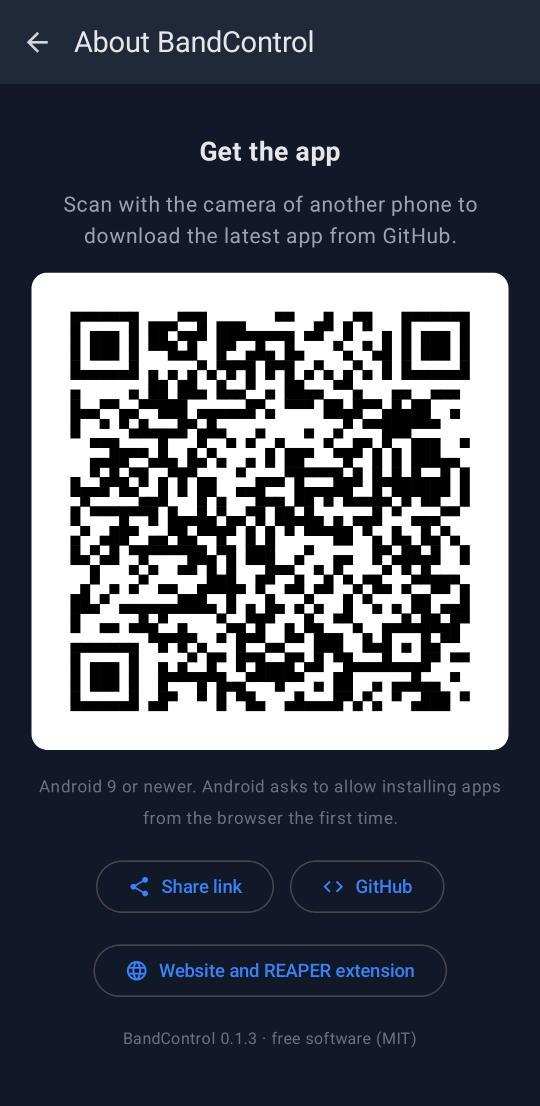
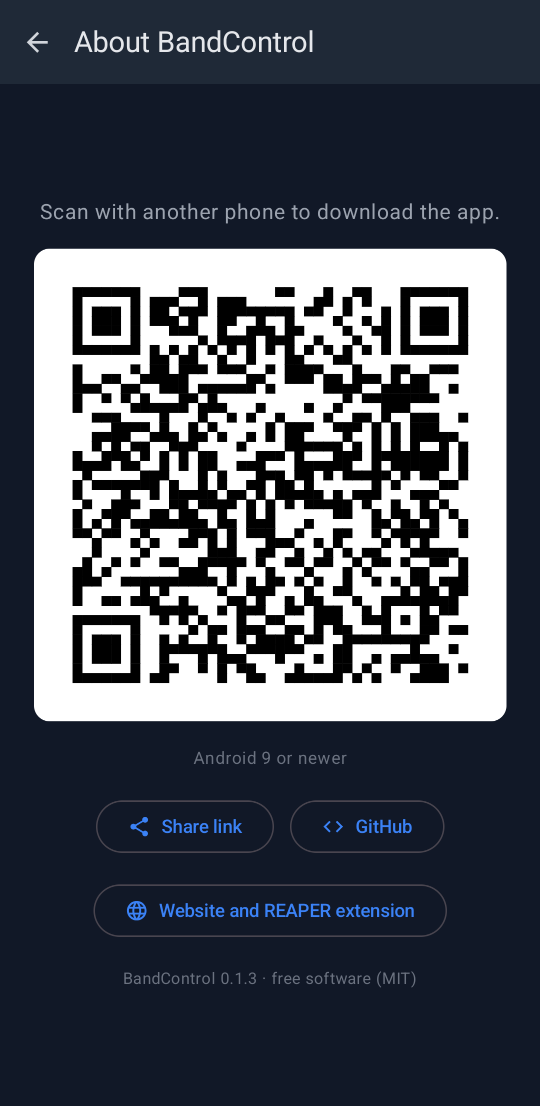
fix(android): the welcome, About and QR code screens fit without scrolling (#27)
* feat(android): a shorter welcome screen that fits without scrolling

* fix(android): the About and pairing QR code screens fit without scrolling

diff --git a/android/app/src/main/kotlin/dev/nikarh/bandcontrol/app/ui/PairScreen.kt b/android/app/src/main/kotlin/dev/nikarh/bandcontrol/app/ui/PairScreen.kt
@@ -7,20 +7,18 @@ import androidx.activity.compose.BackHandler
 import androidx.compose.foundation.Image
 import androidx.compose.foundation.background
 import androidx.compose.foundation.layout.Arrangement
-import androidx.compose.foundation.layout.Box
+import androidx.compose.foundation.layout.BoxWithConstraints
 import androidx.compose.foundation.layout.Column
-import androidx.compose.foundation.layout.PaddingValues
-import androidx.compose.foundation.layout.Row
 import androidx.compose.foundation.layout.Spacer
 import androidx.compose.foundation.layout.fillMaxSize
 import androidx.compose.foundation.layout.fillMaxWidth
 import androidx.compose.foundation.layout.height
+import androidx.compose.foundation.layout.heightIn
 import androidx.compose.foundation.layout.imePadding
 import androidx.compose.foundation.layout.padding
 import androidx.compose.foundation.layout.size
 import androidx.compose.foundation.layout.width
 import androidx.compose.foundation.rememberScrollState
-import androidx.compose.foundation.shape.CircleShape
 import androidx.compose.foundation.shape.RoundedCornerShape
 import androidx.compose.foundation.text.KeyboardOptions
 import androidx.compose.foundation.verticalScroll
@@ -112,28 +110,40 @@ fun PairScreen(
                 .padding(padding)
                 .fillMaxSize()
                 .imePadding()
-                .verticalScroll(rememberScrollState())
                 .padding(horizontal = 24.dp, vertical = 16.dp),
-            verticalArrangement = Arrangement.spacedBy(20.dp),
         ) {
-            if (onCancel == null) Welcome()
-            Column(verticalArrangement = Arrangement.spacedBy(14.dp)) {
-                Text("Pair with your computer", color = Palette.gray200, fontSize = 18.sp, fontWeight = FontWeight.SemiBold)
-                Step(1, "Install the BandControl extension for REAPER on the computer.") {
-                    TextButton(
-                        onClick = openWebsite,
-                        contentPadding = PaddingValues(vertical = 4.dp),
-                        modifier = Modifier.testTag("get-extension"),
-                    ) {
-                        Text("Get the extension", color = Palette.blue500)
+            // The middle takes the free space and centers its content; it only scrolls when it can't fit (the
+            // keyboard is up, landscape).
+            BoxWithConstraints(Modifier.weight(1f).fillMaxWidth()) {
+                Column(
+                    Modifier
+                        .verticalScroll(rememberScrollState())
+                        .heightIn(min = maxHeight)
+                        .fillMaxWidth(),
+                    verticalArrangement = Arrangement.Center,
+                    horizontalAlignment = Alignment.CenterHorizontally,
+                ) {
+                    if (manual) {
+                        ManualEntry(
+                            code = code,
+                            onCode = { code = it },
+                            name = name,
+                            onName = { name = it },
+                            valid = secret != null,
+                            onPair = { secret?.let { onPair(PairingInfo(it, name.trim())) } },
+                        )
+                    } else {
+                        Intro(welcome = onCancel == null, onGetExtension = openWebsite)
                     }
                 }
-                Step(2, "In REAPER, run the action \"BandControl: Show pairing QR code\".")
-                Step(3, "Scan the QR code it shows. Another paired phone can show it too.")
+            }
+            scanError?.let {
+                Text(it, color = Palette.red500, textAlign = TextAlign.Center, modifier = Modifier.fillMaxWidth().padding(bottom = 8.dp))
             }
             Button(
                 onClick = {
                     scanError = null
+                    manual = false
                     scanning = true
                 },
                 colors = ButtonDefaults.buttonColors(containerColor = Palette.blue500, contentColor = Color.White),
@@ -143,33 +153,29 @@ fun PairScreen(
                 Spacer(Modifier.width(8.dp))
                 Text("Scan QR code")
             }
-            scanError?.let { Text(it, color = Palette.red500) }
             if (!manual) {
                 TextButton(
                     onClick = { manual = true },
                     modifier = Modifier.align(Alignment.CenterHorizontally).testTag("enter-code"),
                 ) { Text("Enter the code instead", color = Palette.blue500) }
-            } else {
-                ManualEntry(
-                    code = code,
-                    onCode = { code = it },
-                    name = name,
-                    onName = { name = it },
-                    valid = secret != null,
-                    onPair = { secret?.let { onPair(PairingInfo(it, name.trim())) } },
-                )
             }
         }
     }
 }
 
+/** What the app is (on a fresh install) and the one thing to do: show the QR code in REAPER. */
 @Composable
-private fun Welcome() {
-    Column(Modifier.fillMaxWidth(), horizontalAlignment = Alignment.CenterHorizontally) {
-        Box(Modifier.size(96.dp).clip(RoundedCornerShape(24.dp)).background(Palette.gray800), contentAlignment = Alignment.Center) {
-            Image(painterResource(R.drawable.ic_launcher_foreground), contentDescription = null, modifier = Modifier.size(96.dp))
-        }
-        Spacer(Modifier.height(16.dp))
+private fun Intro(
+    welcome: Boolean,
+    onGetExtension: () -> Unit,
+) {
+    if (welcome) {
+        Image(
+            painterResource(R.drawable.ic_launcher_foreground),
+            contentDescription = null,
+            modifier = Modifier.size(88.dp).clip(RoundedCornerShape(22.dp)).background(Palette.gray800),
+        )
+        Spacer(Modifier.height(20.dp))
         Text(
             "Control REAPER from your phone",
             color = Palette.gray200,
@@ -177,30 +183,15 @@ private fun Welcome() {
             fontWeight = FontWeight.Bold,
             textAlign = TextAlign.Center,
         )
-        Spacer(Modifier.height(6.dp))
-        Text(
-            "Playback and the setlist, input and FOH levels, and your own in-ear mix, over Bluetooth.",
-            color = Palette.gray400,
-            textAlign = TextAlign.Center,
-        )
+        Spacer(Modifier.height(8.dp))
     }
-}
-
-@Composable
-private fun Step(
-    number: Int,
-    text: String,
-    action: (@Composable () -> Unit)? = null,
-) {
-    Row {
-        Box(Modifier.size(24.dp).background(Palette.gray700, CircleShape), contentAlignment = Alignment.Center) {
-            Text(number.toString(), color = Palette.gray200, fontSize = 13.sp, fontWeight = FontWeight.Bold)
-        }
-        Spacer(Modifier.width(12.dp))
-        Column(Modifier.weight(1f).padding(top = 2.dp)) {
-            Text(text, color = Palette.gray300)
-            action?.invoke()
-        }
+    Text(
+        "In REAPER, run \"BandControl: Show pairing QR code\" and scan it.",
+        color = Palette.gray400,
+        textAlign = TextAlign.Center,
+    )
+    TextButton(onClick = onGetExtension, modifier = Modifier.testTag("get-extension")) {
+        Text("Get the REAPER extension", color = Palette.blue500)
     }
 }
 
@@ -214,7 +205,7 @@ private fun ManualEntry(
     onPair: () -> Unit,
 ) {
     Column(verticalArrangement = Arrangement.spacedBy(12.dp)) {
-        Text("The code is shown below the QR code.", color = Palette.gray400, fontSize = 14.sp)
+        Text("Type the code shown below the QR code in REAPER.", color = Palette.gray400, fontSize = 14.sp)
         OutlinedTextField(
             value = code,
             onValueChange = onCode,

diff --git a/android/app/src/main/kotlin/dev/nikarh/bandcontrol/app/ui/ShareScreen.kt b/android/app/src/main/kotlin/dev/nikarh/bandcontrol/app/ui/ShareScreen.kt
@@ -6,14 +6,13 @@ import androidx.activity.compose.LocalActivity
 import androidx.compose.foundation.Canvas
 import androidx.compose.foundation.background
 import androidx.compose.foundation.layout.Arrangement
-import androidx.compose.foundation.layout.Box
+import androidx.compose.foundation.layout.BoxWithConstraints
 import androidx.compose.foundation.layout.Column
-import androidx.compose.foundation.layout.aspectRatio
+import androidx.compose.foundation.layout.ColumnScope
 import androidx.compose.foundation.layout.fillMaxSize
-import androidx.compose.foundation.layout.fillMaxWidth
 import androidx.compose.foundation.layout.padding
 import androidx.compose.foundation.layout.safeDrawingPadding
-import androidx.compose.foundation.layout.widthIn
+import androidx.compose.foundation.layout.size
 import androidx.compose.foundation.rememberScrollState
 import androidx.compose.foundation.shape.RoundedCornerShape
 import androidx.compose.foundation.verticalScroll
@@ -62,21 +61,13 @@ fun ShareScreen(
         containerColor = Palette.gray900,
         topBar = { AppBar("Pair another phone", onBack = onClose, backTag = "share-close") },
     ) { padding ->
-        Column(
-            Modifier
-                .padding(padding)
-                .fillMaxSize()
-                .verticalScroll(rememberScrollState())
-                .padding(24.dp),
-            horizontalAlignment = Alignment.CenterHorizontally,
-            verticalArrangement = Arrangement.spacedBy(16.dp, Alignment.CenterVertically),
-        ) {
+        QrPage(Modifier.padding(padding)) { qr ->
             Text(
                 "On the other phone, open BandControl, tap \"Scan QR code\" and point it at this code.",
                 color = Palette.gray400,
                 textAlign = TextAlign.Center,
             )
-            QrCode(matrix, Modifier.testTag("share-qr"))
+            QrCode(matrix, qr.testTag("share-qr"))
             if (info.name.isNotEmpty()) Text(info.name, color = Palette.gray200, fontSize = 16.sp)
             val groups = info.secret.toDisplayCode().split('-')
             Text(
@@ -92,30 +83,58 @@ fun ShareScreen(
     }
 }
 
-/** A QR code on white with its quiet zone, as wide as allowed up to 360 dp. */
+/** Below this height the QR code would get too small to scan, so the page scrolls instead of shrinking it. */
+private val MIN_FITTING_HEIGHT = 480.dp
+
+/**
+ * A centered page around a QR code. The code shrinks so that the page fits the screen without scrolling; [content]
+ * gets the modifier to give it. On a very short screen (landscape) the page scrolls with the code at full width.
+ */
+@Composable
+fun QrPage(
+    modifier: Modifier = Modifier,
+    content: @Composable ColumnScope.(qr: Modifier) -> Unit,
+) {
+    BoxWithConstraints(modifier.fillMaxSize()) {
+        val fits = maxHeight >= MIN_FITTING_HEIGHT
+        Column(
+            Modifier
+                .fillMaxSize()
+                .then(if (fits) Modifier else Modifier.verticalScroll(rememberScrollState()))
+                .padding(24.dp),
+            horizontalAlignment = Alignment.CenterHorizontally,
+            verticalArrangement = Arrangement.spacedBy(16.dp, Alignment.CenterVertically),
+        ) {
+            content(if (fits) Modifier.weight(1f, fill = false) else Modifier)
+        }
+    }
+}
+
+/** A QR code on white with its quiet zone, as large as the space it gets allows, up to 360 dp. */
 @Composable
 fun QrCode(
     matrix: QrMatrix,
     modifier: Modifier = Modifier,
 ) {
-    Canvas(
-        modifier
-            .fillMaxWidth()
-            .widthIn(max = 360.dp)
-            .aspectRatio(1f)
-            .clip(RoundedCornerShape(12.dp))
-            .background(Color.White),
-    ) {
-        val module = size.width / (matrix.size + 2 * QUIET_ZONE)
-        for (y in 0 until matrix.size) {
-            for (x in 0 until matrix.size) {
-                if (matrix[x, y]) {
-                    drawRect(
-                        Color.Black,
-                        Offset((x + QUIET_ZONE) * module, (y + QUIET_ZONE) * module),
-                        // Slight overlap so no hairlines appear between modules.
-                        Size(module + 0.5f, module + 0.5f),
-                    )
+    BoxWithConstraints(modifier, contentAlignment = Alignment.Center) {
+        val side = minOf(maxWidth, maxHeight, 360.dp)
+        Canvas(
+            Modifier
+                .size(side)
+                .clip(RoundedCornerShape(12.dp))
+                .background(Color.White),
+        ) {
+            val module = size.width / (matrix.size + 2 * QUIET_ZONE)
+            for (y in 0 until matrix.size) {
+                for (x in 0 until matrix.size) {
+                    if (matrix[x, y]) {
+                        drawRect(
+                            Color.Black,
+                            Offset((x + QUIET_ZONE) * module, (y + QUIET_ZONE) * module),
+                            // Slight overlap so no hairlines appear between modules.
+                            Size(module + 0.5f, module + 0.5f),
+                        )
+                    }
                 }
             }
         }

diff --git a/android/app/src/main/kotlin/dev/nikarh/bandcontrol/app/ui/AboutScreen.kt b/android/app/src/main/kotlin/dev/nikarh/bandcontrol/app/ui/AboutScreen.kt
@@ -10,13 +10,10 @@ import androidx.compose.foundation.layout.Box
 import androidx.compose.foundation.layout.Column
 import androidx.compose.foundation.layout.Row
 import androidx.compose.foundation.layout.Spacer
-import androidx.compose.foundation.layout.fillMaxSize
 import androidx.compose.foundation.layout.padding
 import androidx.compose.foundation.layout.safeDrawingPadding
 import androidx.compose.foundation.layout.size
 import androidx.compose.foundation.layout.width
-import androidx.compose.foundation.rememberScrollState
-import androidx.compose.foundation.verticalScroll
 import androidx.compose.material.icons.Icons
 import androidx.compose.material.icons.filled.Close
 import androidx.compose.material.icons.filled.Code
@@ -35,7 +32,6 @@ import androidx.compose.ui.Modifier
 import androidx.compose.ui.graphics.vector.ImageVector
 import androidx.compose.ui.platform.LocalContext
 import androidx.compose.ui.platform.testTag
-import androidx.compose.ui.text.font.FontWeight
 import androidx.compose.ui.text.style.TextAlign
 import androidx.compose.ui.unit.dp
 import androidx.compose.ui.unit.sp
@@ -78,24 +74,15 @@ fun AboutScreen(onClose: () -> Unit) {
         containerColor = Palette.gray900,
         topBar = { AppBar("About BandControl", onBack = onClose, backTag = "about-close") },
     ) { padding ->
-        Column(
-            Modifier
-                .padding(padding)
-                .fillMaxSize()
-                .verticalScroll(rememberScrollState())
-                .padding(24.dp),
-            horizontalAlignment = Alignment.CenterHorizontally,
-            verticalArrangement = Arrangement.spacedBy(16.dp, Alignment.CenterVertically),
-        ) {
-            Text("Get the app", color = Palette.gray200, fontSize = 20.sp, fontWeight = FontWeight.Bold)
+        QrPage(Modifier.padding(padding)) { qr ->
             Text(
-                "Scan with the camera of another phone to download the latest app from GitHub.",
+                "Scan with another phone to download the app.",
                 color = Palette.gray400,
                 textAlign = TextAlign.Center,
             )
-            QrCode(matrix, Modifier.testTag("about-qr"))
+            QrCode(matrix, qr.testTag("about-qr"))
             Text(
-                "Android 9 or newer. Android asks to allow installing apps from the browser the first time.",
+                "Android 9 or newer",
                 color = Palette.gray500,
                 fontSize = 13.sp,
                 textAlign = TextAlign.Center,
